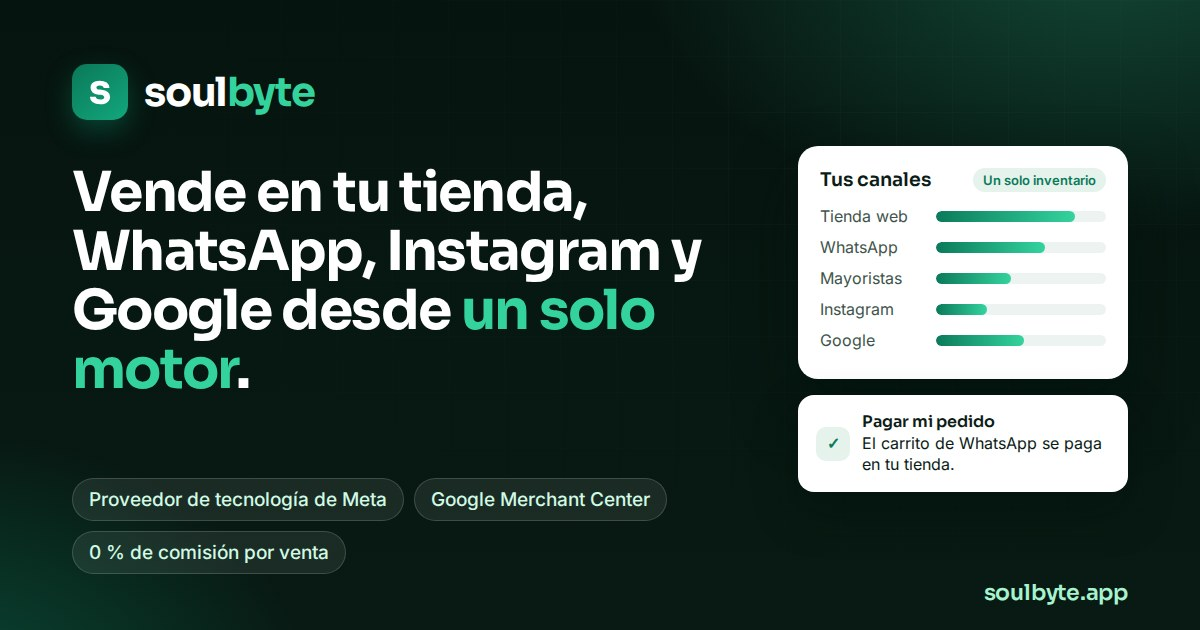
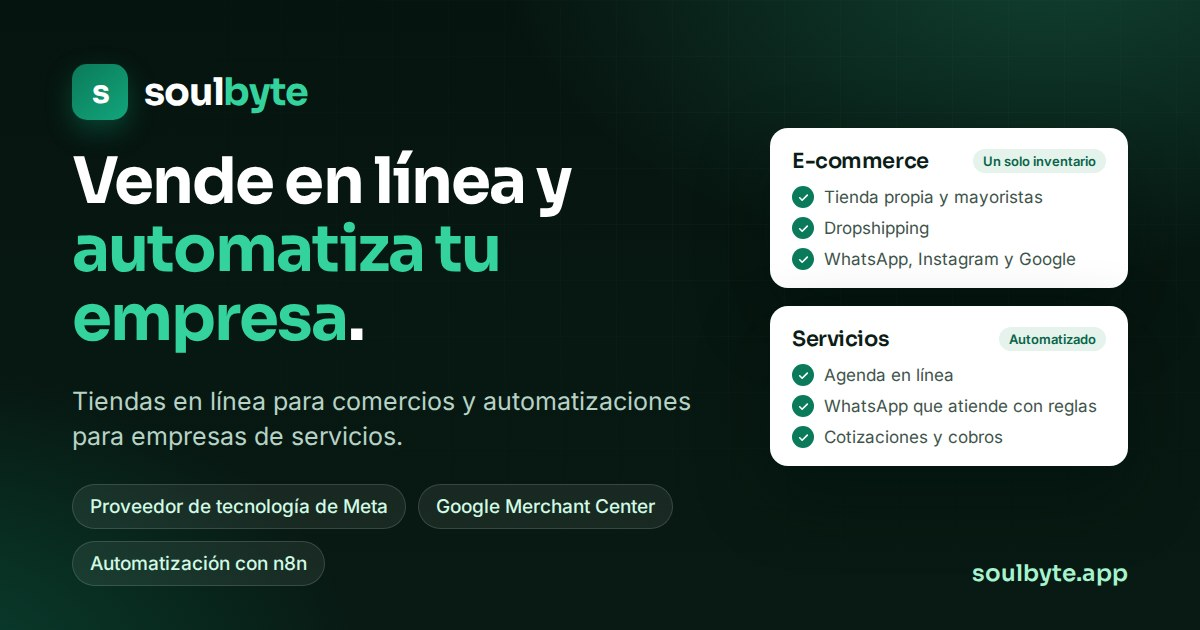
Posicionamiento: e-commerce y automatizaciones para empresas
La portada, el título, la descripción y la vista previa de los enlaces
(WhatsApp, Facebook) nombran las dos líneas de Soulbyte: tiendas en línea
para comercios y automatizaciones para empresas de servicios.

- Portada: título «Vende en línea y automatiza tu empresa» y texto con
  las dos líneas; JSON-LD Organization con la descripción nueva.
- Imagen para compartir nueva (E-commerce y Servicios), enlazada con
  ?v=2 en todas las páginas para que WhatsApp y Facebook no usen la copia
  en caché; texto alternativo nuevo.
- README: regla del posicionamiento y nota de la imagen.
Revisado a 390 y 1280 px, sin desborde horizontal.

Claude-Session: https://claude.ai/code/session_015hs1Nyu7ENQzh2suxjkPCE

diff --git a/index.html b/index.html
@@ -3,21 +3,21 @@
 <head>
 <meta charset="utf-8">
 <meta name="viewport" content="width=device-width, initial-scale=1">
-<title>Soulbyte — e-commerce con WhatsApp Business y Google en Colombia</title>
-<meta name="description" content="Tienda propia, WhatsApp Business, Instagram, Meta y Google Merchant sobre un mismo inventario, sin comisión por venta. Proveedor de tecnología de Meta.">
+<title>Soulbyte — e-commerce y automatización para empresas en Colombia</title>
+<meta name="description" content="Tiendas en línea para comercios y automatizaciones para empresas de servicios, con WhatsApp Business, Instagram, Meta y Google. Proveedor de tecnología de Meta.">
 <link rel="canonical" href="https://soulbyte.app/">
 <meta name="theme-color" content="#06140f">
 <meta property="og:type" content="website">
 <meta property="og:locale" content="es_CO">
 <meta property="og:site_name" content="Soulbyte">
-<meta property="og:title" content="Soulbyte — vende en tu tienda, WhatsApp, Instagram y Google desde un solo motor">
-<meta property="og:description" content="Tienda propia multimarca y mayorista, WhatsApp Business, anuncios de Meta medidos con ventas reales, Instagram automatizado y Google Merchant sobre un mismo inventario. Sin comisión por venta. Proveedor de tecnología de WhatsApp acreditado por Meta.">
+<meta property="og:title" content="Soulbyte — vende en línea y automatiza tu empresa">
+<meta property="og:description" content="Tiendas en línea para comercios y automatizaciones para empresas de servicios: agenda en línea, WhatsApp que atiende con reglas, cotizaciones y cobros. Proveedor de tecnología de WhatsApp acreditado por Meta.">
 <meta property="og:url" content="https://soulbyte.app/">
-<meta property="og:image" content="https://soulbyte.app/assets/og-soulbyte.jpg">
+<meta property="og:image" content="https://soulbyte.app/assets/og-soulbyte.jpg?v=2">
 <meta property="og:image:type" content="image/jpeg">
 <meta property="og:image:width" content="1200">
 <meta property="og:image:height" content="630">
-<meta property="og:image:alt" content="Soulbyte: vende en tu tienda, WhatsApp, Instagram y Google desde un solo motor.">
+<meta property="og:image:alt" content="Soulbyte: vende en línea y automatiza tu empresa. Tiendas en línea para comercios y automatizaciones para empresas de servicios.">
 <meta name="twitter:card" content="summary_large_image">
 <link rel="icon" href="favicon.ico" sizes="16x16 32x32 48x48">
 <link rel="icon" href="icon.svg" type="image/svg+xml">
@@ -48,15 +48,15 @@
   "alternateName": "Soulbyte Colombia",
   "url": "https://soulbyte.app/",
   "logo": { "@type": "ImageObject", "url": "https://soulbyte.app/assets/logo-soulbyte-512.png", "width": 512, "height": 512 },
-  "image": "https://soulbyte.app/assets/og-soulbyte.jpg",
-  "description": "Plataforma de comercio electrónico que instala, conecta y opera la tienda propia de cada comercio junto a WhatsApp Business, Meta, Instagram y Google Merchant Center sobre un mismo inventario. Proveedor de tecnología de WhatsApp Business acreditado por Meta.",
+  "image": "https://soulbyte.app/assets/og-soulbyte.jpg?v=2",
+  "description": "Tiendas en línea para comercios y automatizaciones para empresas de servicios. Soulbyte instala, conecta y opera la tienda propia de cada comercio y los flujos de atención, agenda, cotizaciones y cobros de cada empresa, junto a WhatsApp Business, Meta, Instagram y Google. Proveedor de tecnología de WhatsApp Business acreditado por Meta.",
   "email": "hola@soulbyte.app",
   "sameAs": ["https://www.facebook.com/soulbyteapp", "https://www.instagram.com/soulbyteapp/"],
   "contactPoint": { "@type": "ContactPoint", "contactType": "sales", "email": "hola@soulbyte.app", "areaServed": "CO", "availableLanguage": ["es"] },
   "taxID": "901.923.996-1",
   "address": { "@type": "PostalAddress", "streetAddress": "Carrera 48 # 10-45, C.C. Monterrey, Oficina 2219", "addressLocality": "Medellín", "addressRegion": "Antioquia", "addressCountry": "CO" },
   "areaServed": "CO",
-  "knowsAbout": ["Comercio electrónico", "Comercio mayorista B2B", "WhatsApp Business Platform", "Google Merchant Center", "Automatización de pedidos", "API de conversiones de Meta", "Publicidad en Facebook e Instagram", "Dropshipping"],
+  "knowsAbout": ["Comercio electrónico", "Comercio mayorista B2B", "WhatsApp Business Platform", "Google Merchant Center", "Automatización de pedidos", "API de conversiones de Meta", "Publicidad en Facebook e Instagram", "Dropshipping", "Automatización con n8n para empresas de servicios", "Agenda de citas en línea"],
   "brand": [
     { "@type": "Brand", "name": "Hit-Air Colombia", "url": "https://hitaircolombia.com" },
     { "@type": "Brand", "name": "Ekivibes", "url": "https://ekivibes.com" }
@@ -175,8 +175,8 @@
   <div class="envoltura hero-grid">
     <div>
       <a class="chip" href="#preguntas"><span class="punto" aria-hidden="true"></span>En producción con dos marcas en Colombia</a>
-      <h1>Vende en tu tienda, WhatsApp, Instagram y Google desde <em>un solo motor</em>.</h1>
-      <p class="lead">Soulbyte es la plataforma de comercio electrónico que instala, conecta y opera tu tienda propia —multimarca y con canal mayorista— junto a WhatsApp Business, Meta, Instagram y Google Merchant, sobre un mismo inventario. La tienda, las cuentas y los datos son de tu empresa; nosotros mantenemos el motor funcionando.</p>
+      <h1>Vende en línea y <em>automatiza tu empresa</em>.</h1>
+      <p class="lead">Soulbyte instala y opera tiendas en línea para comercios —multimarca, mayoristas y dropshipping— y automatiza empresas de servicios con agenda en línea, WhatsApp que atiende con reglas, cotizaciones y cobros. Todo conectado a WhatsApp Business, Instagram, Meta y Google; las cuentas y los datos son de tu empresa.</p>
       <div class="hero-acciones">
         <a class="btn btn-primario" href="conectar/">Conectar WhatsApp Business <svg class="ico"><use href="#i-flecha"/></svg></a>
         <a class="btn btn-oscuro-contorno" href="mailto:hola@soulbyte.app?subject=Quiero%20vender%20en%20l%C3%ADnea%20con%20Soulbyte">Hablar con ventas</a>

diff --git a/automatizacion-empresas-de-servicios/index.html b/automatizacion-empresas-de-servicios/index.html
@@ -13,11 +13,11 @@
 <meta property="og:title" content="Automatización con n8n para empresas de servicios — Soulbyte">
 <meta property="og:description" content="Para desarrollo y agencias, consultorios y firmas de abogados: agenda en línea, WhatsApp que atiende con reglas, cada contacto registrado, cotizaciones y cobros con seguimiento, y tus redes al día.">
 <meta property="og:url" content="https://soulbyte.app/automatizacion-empresas-de-servicios/">
-<meta property="og:image" content="https://soulbyte.app/assets/og-soulbyte.jpg">
+<meta property="og:image" content="https://soulbyte.app/assets/og-soulbyte.jpg?v=2">
 <meta property="og:image:type" content="image/jpeg">
 <meta property="og:image:width" content="1200">
 <meta property="og:image:height" content="630">
-<meta property="og:image:alt" content="Soulbyte: vende en tu tienda, WhatsApp, Instagram y Google desde un solo motor.">
+<meta property="og:image:alt" content="Soulbyte: vende en línea y automatiza tu empresa. Tiendas en línea para comercios y automatizaciones para empresas de servicios.">
 <meta name="twitter:card" content="summary_large_image">
 <link rel="icon" href="../favicon.ico" sizes="16x16 32x32 48x48">
 <link rel="icon" href="../icon.svg" type="image/svg+xml">

diff --git a/ecommerce-b2b-mayoristas/index.html b/ecommerce-b2b-mayoristas/index.html
@@ -13,11 +13,11 @@
 <meta property="og:title" content="E-commerce B2B para mayoristas en Colombia — Soulbyte">
 <meta property="og:description" content="Tu canal mayorista en tu tienda propia, con el mismo inventario: cada distribuidor con su lista de precios, cotizaciones que se vuelven pedido y cartera con plazos y cupo.">
 <meta property="og:url" content="https://soulbyte.app/ecommerce-b2b-mayoristas/">
-<meta property="og:image" content="https://soulbyte.app/assets/og-soulbyte.jpg">
+<meta property="og:image" content="https://soulbyte.app/assets/og-soulbyte.jpg?v=2">
 <meta property="og:image:type" content="image/jpeg">
 <meta property="og:image:width" content="1200">
 <meta property="og:image:height" content="630">
-<meta property="og:image:alt" content="Soulbyte: vende en tu tienda, WhatsApp, Instagram y Google desde un solo motor.">
+<meta property="og:image:alt" content="Soulbyte: vende en línea y automatiza tu empresa. Tiendas en línea para comercios y automatizaciones para empresas de servicios.">
 <meta name="twitter:card" content="summary_large_image">
 <link rel="icon" href="../favicon.ico" sizes="16x16 32x32 48x48">
 <link rel="icon" href="../icon.svg" type="image/svg+xml">

diff --git a/whatsapp-business-api/index.html b/whatsapp-business-api/index.html
@@ -13,11 +13,11 @@
 <meta property="og:title" content="API de WhatsApp Business para tiendas en Colombia — Soulbyte">
 <meta property="og:description" content="Autoservicio, catálogo en el chat, carrito que se paga en tu tienda y avisos de cada pedido, en tu propio número. Proveedor de tecnología acreditado por Meta.">
 <meta property="og:url" content="https://soulbyte.app/whatsapp-business-api/">
-<meta property="og:image" content="https://soulbyte.app/assets/og-soulbyte.jpg">
+<meta property="og:image" content="https://soulbyte.app/assets/og-soulbyte.jpg?v=2">
 <meta property="og:image:type" content="image/jpeg">
 <meta property="og:image:width" content="1200">
 <meta property="og:image:height" content="630">
-<meta property="og:image:alt" content="Soulbyte: vende en tu tienda, WhatsApp, Instagram y Google desde un solo motor.">
+<meta property="og:image:alt" content="Soulbyte: vende en línea y automatiza tu empresa. Tiendas en línea para comercios y automatizaciones para empresas de servicios.">
 <meta name="twitter:card" content="summary_large_image">
 <link rel="icon" href="../favicon.ico" sizes="16x16 32x32 48x48">
 <link rel="icon" href="../icon.svg" type="image/svg+xml">

diff --git a/google-merchant-center/index.html b/google-merchant-center/index.html
@@ -13,11 +13,11 @@
 <meta property="og:title" content="Google Merchant Center para tiendas en Colombia — Soulbyte">
 <meta property="og:description" content="Un feed que sale del mismo motor que vende: precio, tallas, fotos y disponibilidad reales en Merchant Center, con cuenta avanzada aprobada por Google.">
 <meta property="og:url" content="https://soulbyte.app/google-merchant-center/">
-<meta property="og:image" content="https://soulbyte.app/assets/og-soulbyte.jpg">
+<meta property="og:image" content="https://soulbyte.app/assets/og-soulbyte.jpg?v=2">
 <meta property="og:image:type" content="image/jpeg">
 <meta property="og:image:width" content="1200">
 <meta property="og:image:height" content="630">
-<meta property="og:image:alt" content="Soulbyte: vende en tu tienda, WhatsApp, Instagram y Google desde un solo motor.">
+<meta property="og:image:alt" content="Soulbyte: vende en línea y automatiza tu empresa. Tiendas en línea para comercios y automatizaciones para empresas de servicios.">
 <meta name="twitter:card" content="summary_large_image">
 <link rel="icon" href="../favicon.ico" sizes="16x16 32x32 48x48">
 <link rel="icon" href="../icon.svg" type="image/svg+xml">

diff --git a/conectar/tiktok/index.html b/conectar/tiktok/index.html
@@ -14,11 +14,11 @@
 <meta property="og:title" content="Conectar TikTok — Soulbyte">
 <meta property="og:description" content="Autorizas a Soulbyte desde tu cuenta de TikTok: publicamos lo que tu equipo programa, respondemos los comentarios con tus reglas y te enviamos las métricas de la cuenta.">
 <meta property="og:url" content="https://soulbyte.app/conectar/tiktok/">
-<meta property="og:image" content="https://soulbyte.app/assets/og-soulbyte.jpg">
+<meta property="og:image" content="https://soulbyte.app/assets/og-soulbyte.jpg?v=2">
 <meta property="og:image:type" content="image/jpeg">
 <meta property="og:image:width" content="1200">
 <meta property="og:image:height" content="630">
-<meta property="og:image:alt" content="Soulbyte: vende en tu tienda, WhatsApp, Instagram y Google desde un solo motor.">
+<meta property="og:image:alt" content="Soulbyte: vende en línea y automatiza tu empresa. Tiendas en línea para comercios y automatizaciones para empresas de servicios.">
 <meta name="twitter:card" content="summary_large_image">
 <link rel="icon" href="../../favicon.ico" sizes="16x16 32x32 48x48">
 <link rel="icon" href="../../icon.svg" type="image/svg+xml">

diff --git a/conectar/index.html b/conectar/index.html
@@ -13,11 +13,11 @@
 <meta property="og:title" content="Conectar WhatsApp Business — Soulbyte">
 <meta property="og:description" content="Registro guiado por Meta: eliges o creas tu cuenta de WhatsApp Business, verificas el número y Soulbyte queda autorizado para enviar los mensajes de tus pedidos.">
 <meta property="og:url" content="https://soulbyte.app/conectar/">
-<meta property="og:image" content="https://soulbyte.app/assets/og-soulbyte.jpg">
+<meta property="og:image" content="https://soulbyte.app/assets/og-soulbyte.jpg?v=2">
 <meta property="og:image:type" content="image/jpeg">
 <meta property="og:image:width" content="1200">
 <meta property="og:image:height" content="630">
-<meta property="og:image:alt" content="Soulbyte: vende en tu tienda, WhatsApp, Instagram y Google desde un solo motor.">
+<meta property="og:image:alt" content="Soulbyte: vende en línea y automatiza tu empresa. Tiendas en línea para comercios y automatizaciones para empresas de servicios.">
 <meta name="twitter:card" content="summary_large_image">
 <link rel="icon" href="../favicon.ico" sizes="16x16 32x32 48x48">
 <link rel="icon" href="../icon.svg" type="image/svg+xml">

diff --git a/privacidad/index.html b/privacidad/index.html
@@ -12,11 +12,11 @@
 <meta property="og:site_name" content="Soulbyte">
 <meta property="og:title" content="Política de privacidad — Soulbyte">
 <meta property="og:url" content="https://soulbyte.app/privacidad/">
-<meta property="og:image" content="https://soulbyte.app/assets/og-soulbyte.jpg">
+<meta property="og:image" content="https://soulbyte.app/assets/og-soulbyte.jpg?v=2">
 <meta property="og:image:type" content="image/jpeg">
 <meta property="og:image:width" content="1200">
 <meta property="og:image:height" content="630">
-<meta property="og:image:alt" content="Soulbyte: vende en tu tienda, WhatsApp, Instagram y Google desde un solo motor.">
+<meta property="og:image:alt" content="Soulbyte: vende en línea y automatiza tu empresa. Tiendas en línea para comercios y automatizaciones para empresas de servicios.">
 <meta name="twitter:card" content="summary_large_image">
 <link rel="icon" href="../favicon.ico" sizes="16x16 32x32 48x48">
 <link rel="icon" href="../icon.svg" type="image/svg+xml">

diff --git a/README.md b/README.md
@@ -15,7 +15,7 @@ Sitio estático en **https://soulbyte.app** (desde el 23-sep-2026), servido por 
 | `assets/onboarding.js` | Lógica de las dos vías: lead + apertura del registro de Meta; SDK de Meta, evento `WA_EMBEDDED_SIGNUP`, `FB.login` con `response_type: 'code'`. Desde el 23-sep-2026 envía también `trafico_origen` (utm_source o dominio de procedencia; `google`, `bing` o `directo`), `trafico_entrada` y `trafico_referrer`: cada página guarda la primera página de la visita en `sessionStorage` (`sb_origen`, sin cookies). n8n los guarda en `tenants` solo la primera vez (primer contacto). |
 | `robots.txt`, `sitemap.xml` | Indexación. `sitemap.xml` enviado a Search Console (propiedad de dominio `sc-domain:soulbyte.app`, verificada el 23-sep-2026). |
 | `favicon.ico`, `icon.svg`, `apple-touch-icon.png` | Íconos del sitio (23-sep-2026): ICO de 16, 32 y 48 px (el que usa Google en los resultados), SVG con la «s» de Sora convertida en trazo y 180 px para iOS. |
-| `assets/og-soulbyte.jpg`, `assets/logo-soulbyte-512.png` | Imagen para compartir (1200×630, `og:image` y `twitter:card` en todas las páginas) y logo del marcado Organization. |
+| `assets/og-soulbyte.jpg`, `assets/logo-soulbyte-512.png` | Imagen para compartir (1200×630, `og:image` y `twitter:card` en todas las páginas) y logo del marcado Organization. Desde el 23-sep-2026 la imagen dice «Vende en línea y automatiza tu empresa» con las dos líneas (E-commerce y Servicios) y las páginas la enlazan con `?v=2`: si la imagen cambia, subir el `?v=` en todas las páginas para que WhatsApp y Facebook no muestren la copia en caché. |
 | `404.html` | Página de error con la barra y el pie del sitio (`noindex`, enlaces absolutos a soulbyte.app para que también sirva en la copia de GitHub Pages). |
 | `Caddyfile` | Servidor en Railway. Railpack lo usa en lugar de su plantilla (la procesa como plantilla de Go: `{{.StaticFileRoot}}`). Hace: `www.soulbyte.app` → `https://soulbyte.app{uri}` con 301; oculta `README.md`, `Caddyfile`, `Staticfile` y `.nojekyll`; caché de 30 días para imágenes y `no-cache` para CSS, JS y páginas (revalidan con ETag y responden 304 si no cambiaron: desde el 23-sep-2026, porque con 1 hora de caché una página nueva podía verse con la hoja de estilos anterior); errores con `/{código}.html`. Probar cualquier cambio con `caddy validate` y `caddy run` antes de publicar. |
 
@@ -25,6 +25,7 @@ Sitio estático en **https://soulbyte.app** (desde el 23-sep-2026), servido por 
 - Solo se publica lo que corre en producción; lo que dependa de una aprobación de Meta o Google va en la nota de la sección.
 - Agenda: los servicios, horarios y textos se cambian en la agenda (panel de administración de agenda.soulbyte.app) o con el workflow de configurar; la sección `#agenda` de la página de servicios lee el catálogo en vivo.
 - Regla de Ivan (23-sep-2026): el sitio no menciona Wompi ni Addi. Son cuentas de Hit-Air Colombia y Ekivibes como tiendas; Soulbyte todavía no es agregador ni integrador de ellos. Los pagos se describen de forma genérica (la pasarela de pagos del comercio).
+- Regla de Ivan (23-sep-2026): Soulbyte son servicios para e-commerce y para empresas que necesitan automatizaciones. El título, la descripción, la vista previa de los enlaces (`og:title`, `og:description`, imagen) y el inicio de la portada nombran las dos líneas, no solo e-commerce.
 - Publicación: el sandbox de la nube no puede hacer push a este repo. Se sube desde el Mac de Ivan: `~/Soulbyte/soulbyte-site` es un clon de este repo; un solo commit a `main` y push. Después del push, desplegar soulbyte.app con la API de Railway (servicio del proyecto `soulbyte`) y verificar en vivo (GitHub Pages actualiza la dirección anterior solo, en un par de minutos).
 - SEO (plan en el proyecto, `claude/seo-soulbyte.md`): portada con marcado WebSite (nombre del sitio «Soulbyte», alternativos «Soulbyte Colombia» y «soulbyte.app»), Organization con logo, razón social y contacto, y Service; subpáginas con BreadcrumbList y, las páginas de canal, también Service. No se usa FAQPage: Google retiró ese resultado enriquecido en mayo de 2026.
 - Estilos: `assets/soulbyte.css` (Sora para títulos, Inter para texto, esmeralda de marca). Las páginas enlazan `assets/soulbyte.css?v=2`: el `?v=` solo forzó la descarga de la versión nueva el 23-sep-2026; con `no-cache` ya no hace falta cambiarlo. Antes de publicar, revisar a 1280 y 390 px: sin desborde horizontal, contraste AA y los menús «E-commerce» y «Servicios» con ratón, teclado (Tab y Escape) y en móvil; solo uno queda abierto a la vez. Desde el 23-sep-2026 (barra con «E-commerce» y «Servicios») el menú se compacta en el botón de menú hasta 1120 px: a 1121 px la barra completa deja unos 107 px libres; si se agrega otro enlace, volver a medir. En móvil, el menú abierto se desplaza por dentro (hasta el 75 % del alto de la pantalla) para que los botones del final siempre se alcancen.
